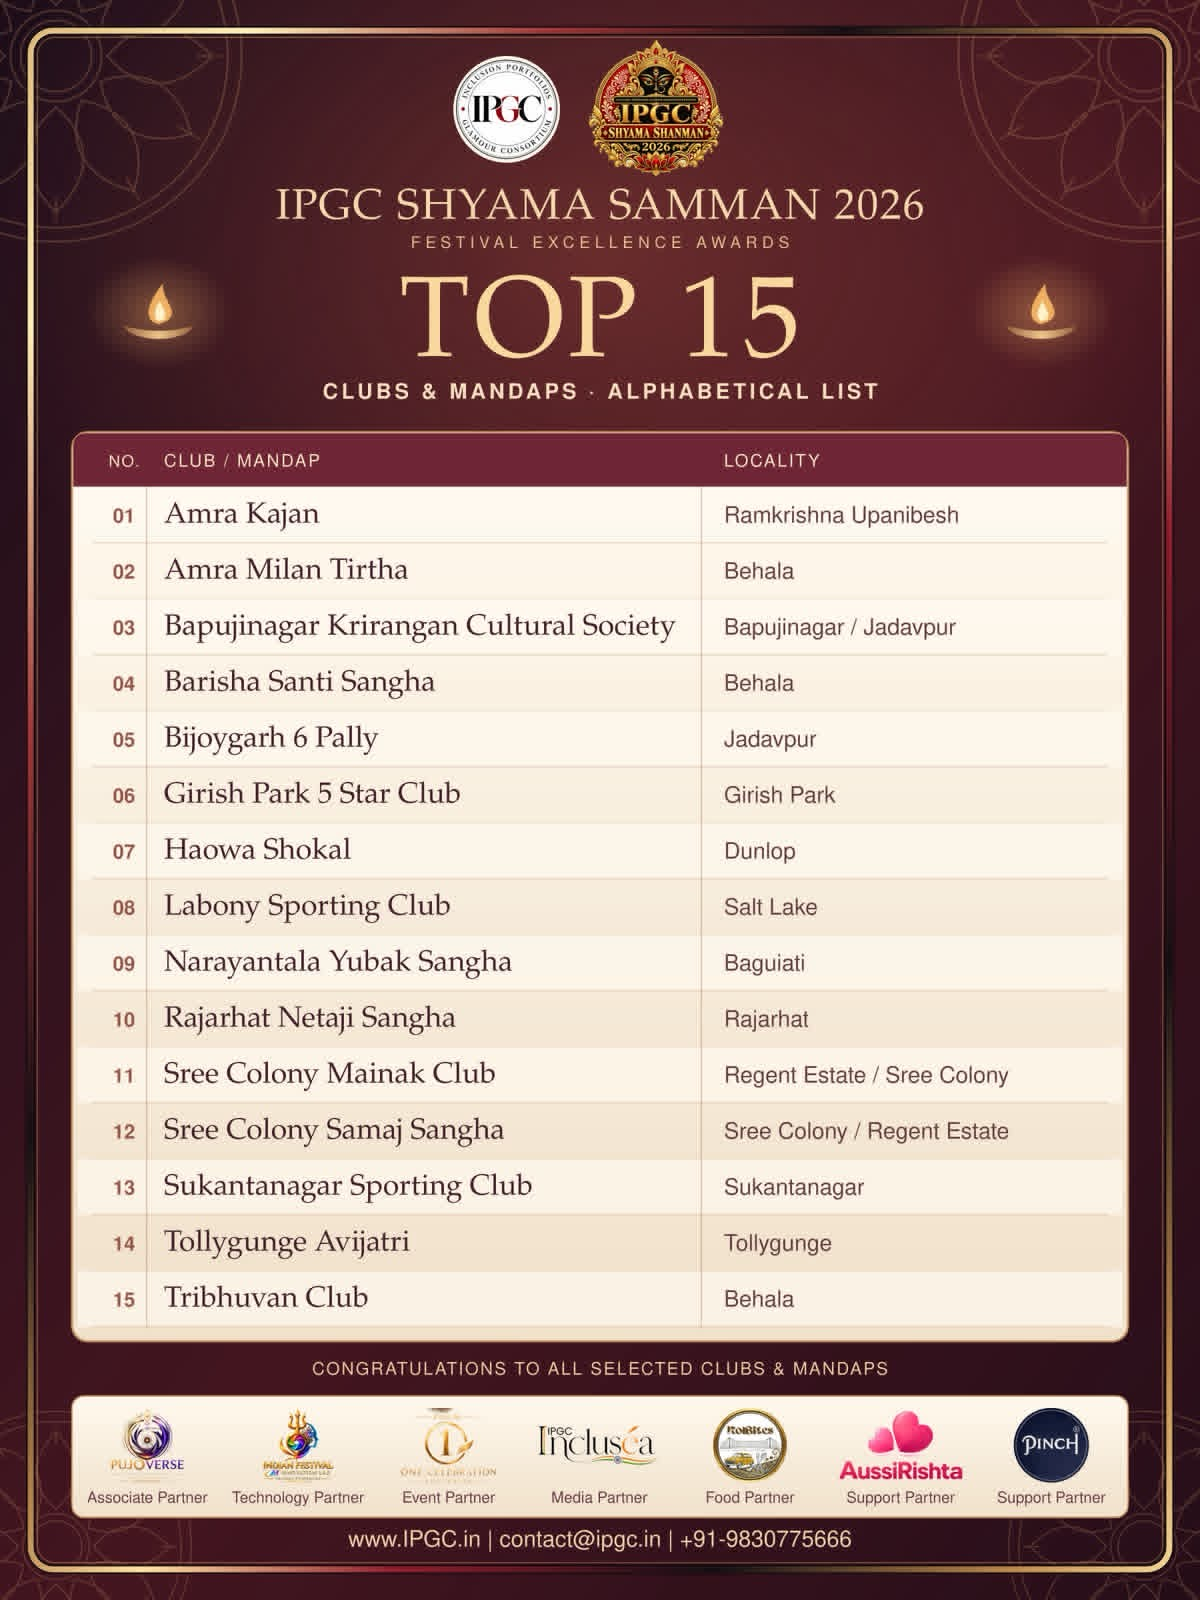
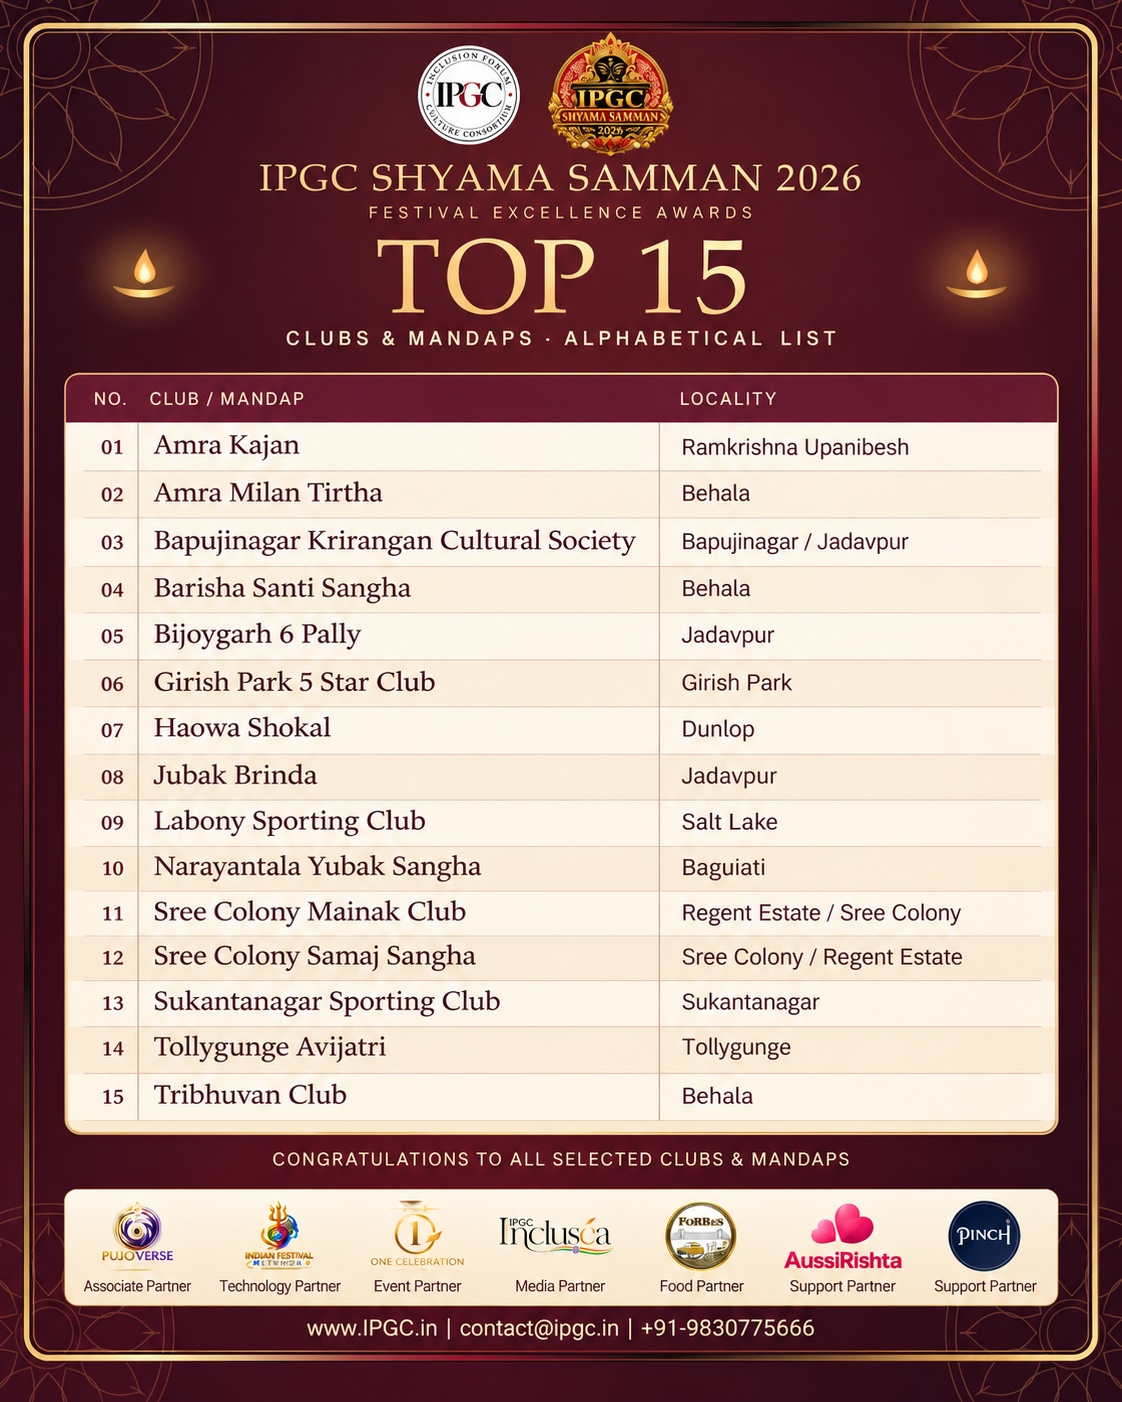
IPGC: replace homepage hero with revised Top 15 poster featuring Jubak Brinda

Changed region(s): [[0.0, 0.0, 1.0, 1.0], [0.8422, 0.184, 0.9046, 0.2147], [0.0936, 0.184, 0.156, 0.2147]]

diff --git a/ipgc-app/src/app/page.tsx b/ipgc-app/src/app/page.tsx
@@ -3,11 +3,7 @@ import {RegistrationCountdown} from "./registration-countdown";
 export default function Home(){
  return <main className="ipgc-landing">
   <RegistrationCountdown/>
-  <img className="ipgc-landing-hero" src="/shyama-samman-2026-hero.svg" alt="IPGC Shyama Samman 2026 — Kali Puja, Art, Culture and Community" />
-  <section className="ipgc-top15-section" aria-labelledby="ipgc-top15-heading">
-   <h2 id="ipgc-top15-heading">IPGC Shyama Samman 2026 — Top 15</h2>
-   <img className="ipgc-top15-poster" src="/ipgc-shyama-samman-2026-top15.jpg" alt="Official IPGC Shyama Samman 2026 Top 15 clubs and mandaps alphabetical list, with fifteen selected clubs and their localities" width={1056} height={1408} loading="lazy" />
-  </section>
+  <img className="ipgc-landing-hero" src="/ipgc-shyama-samman-2026-top15.jpg" alt="IPGC Shyama Samman 2026 — official Top 15 selected clubs and mandaps, updated alphabetical list including Jubak Brinda" width={1122} height={1402} fetchPriority="high" />
   <nav className="ipgc-home-links" aria-label="IPGC pages">
    <Link className="ipgc-landing-action" href="/register">Register Now <span aria-hidden="true">→</span></Link>
   </nav>

diff --git a/ipgc-app/src/app/styles.css b/ipgc-app/src/app/styles.css
@@ -27,8 +27,5 @@
 .ipgc-countdown span{font-variant-numeric:tabular-nums;font-size:clamp(14px,2vw,20px);letter-spacing:.025em}
 body>.ipgc-countdown{max-width:none}
 
-/* Published, unaltered IPGC Top 15 announcement below the existing locked hero */
-.ipgc-top15-section{width:min(100%,1080px);display:flex;flex-direction:column;align-items:center;gap:14px;margin:4px auto 16px}
-.ipgc-top15-section h2{font-family:Georgia,serif;color:#f4dfa9;text-align:center;font-weight:500;letter-spacing:.035em;font-size:clamp(20px,3vw,30px);margin:0}
-.ipgc-top15-poster{width:min(100%,900px);height:auto;display:block;object-fit:contain;border:1px solid #b99551;border-radius:8px;box-shadow:0 16px 40px #0007}
-@media(max-width:600px){.ipgc-top15-section{gap:10px;margin:0 auto 12px}.ipgc-top15-poster{border-radius:4px}}
+/* The approved Top 15 artwork is the homepage hero. Original logos and image artwork are not redrawn. */
+.ipgc-landing-hero{width:min(100%,1040px);height:auto;object-fit:contain;border-radius:4px}
